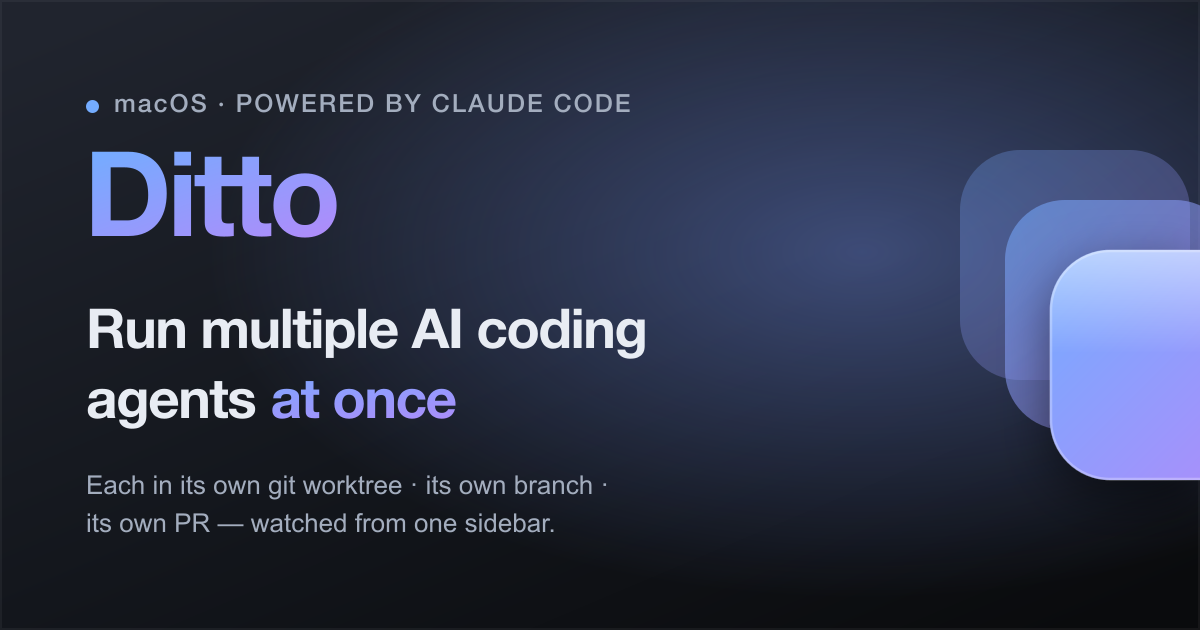
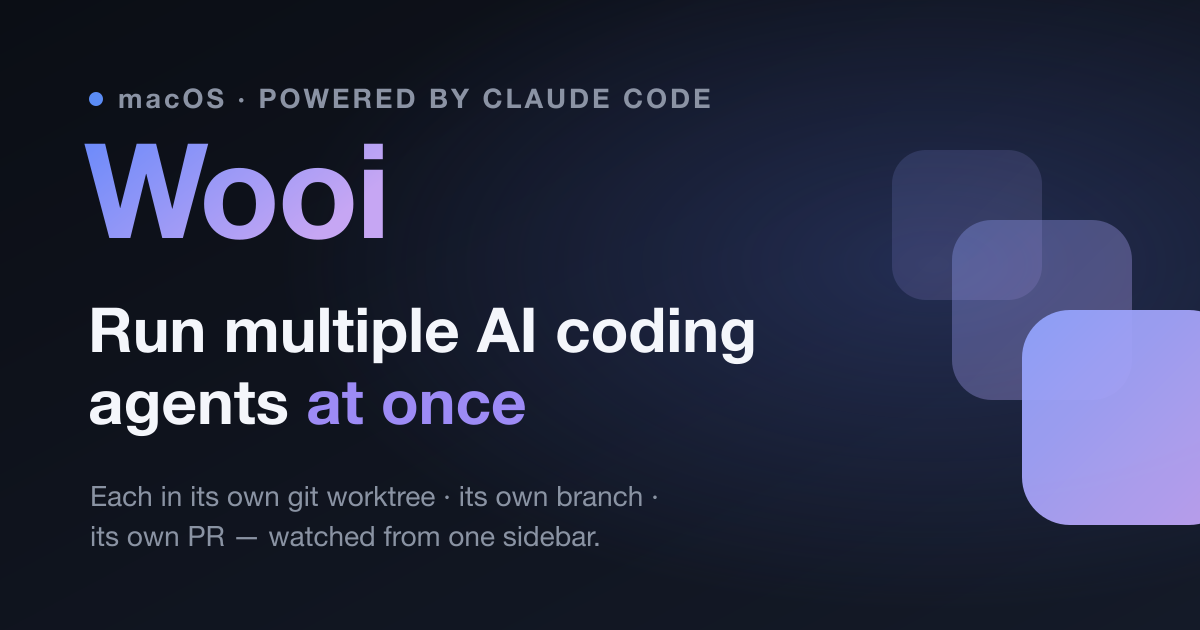
docs: regenerate og image with Wooi branding (#106)
The social preview card (docs/og.png) had "Ditto" baked into the pixels, so the
rename left it stale. Regenerate from a new docs/og.svg source and bump the
og:image URL (?v=2) to bust social-platform caches.

diff --git a/docs/index.html b/docs/index.html
@@ -16,7 +16,7 @@
       property="og:description"
       content="Orchestrate parallel AI coding agents across isolated git worktrees. Each task = its own worktree + branch + agent session."
     />
-    <meta property="og:image" content="https://youngminnnn.github.io/wooi/og.png" />
+    <meta property="og:image" content="https://youngminnnn.github.io/wooi/og.png?v=2" />
     <meta name="theme-color" content="#0a0b0d" />
 
     <link rel="icon" type="image/svg+xml" href="./icon.svg" />
